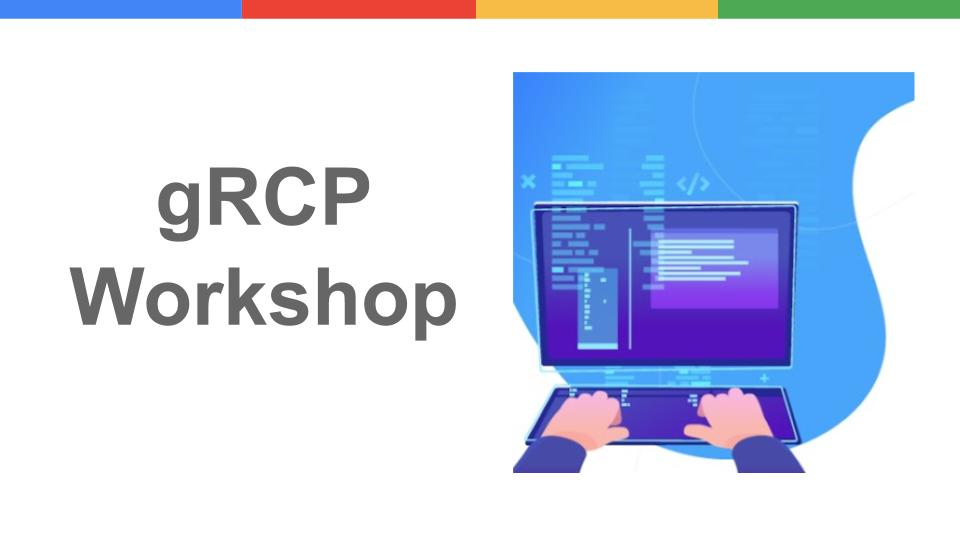
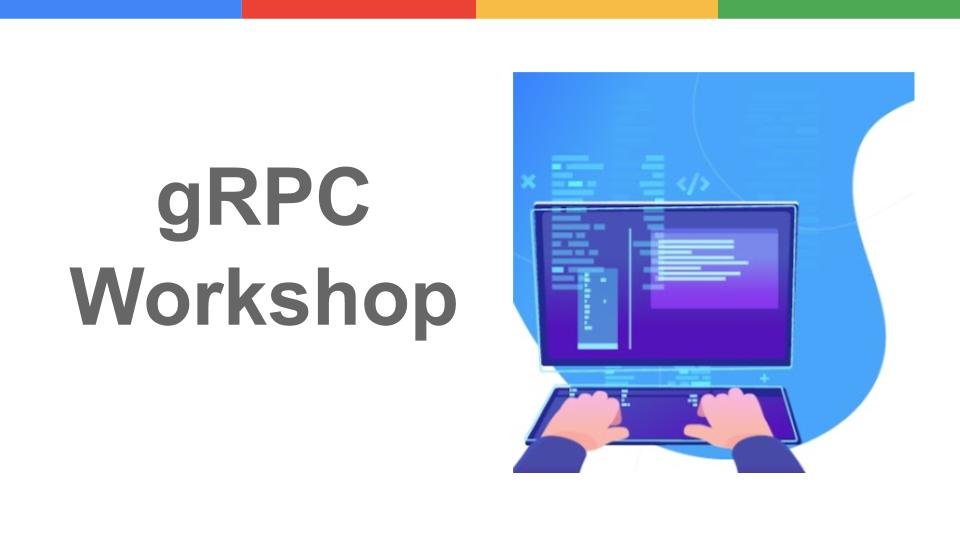
fix typo gRCP to GRPC

Changed region(s): [[0.2812, 0.2963, 0.4062, 0.4148]]

diff --git a/content/talk/event2/index.md b/content/talk/event2/index.md
@@ -11,7 +11,7 @@ location: DMH-150, Dudley Moorhead Hall
 #   postcode: '94305'
 #   country: United States
 
-summary: Introduction and hands-on workshop on gRCP
+summary: Introduction and hands-on workshop on gRPC
 abstract: ""
 
 # Talk start and end times.
